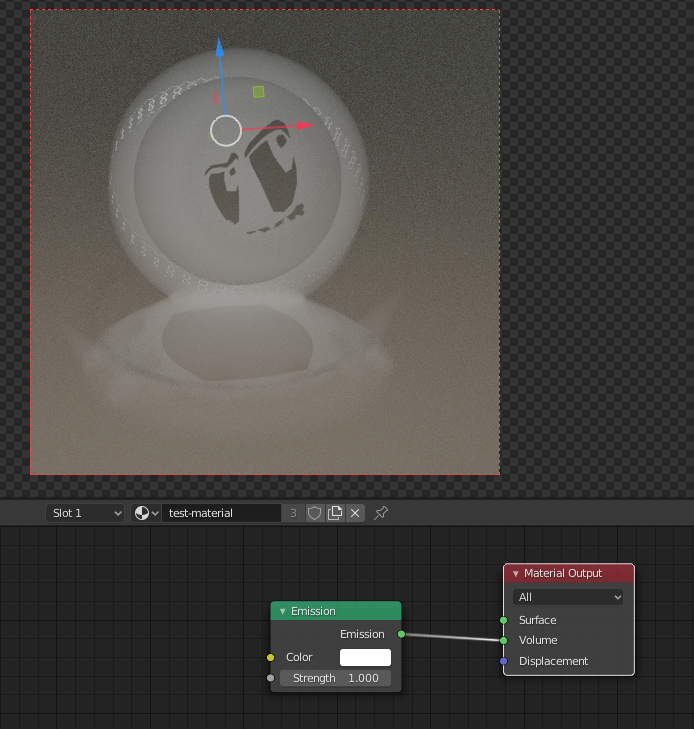
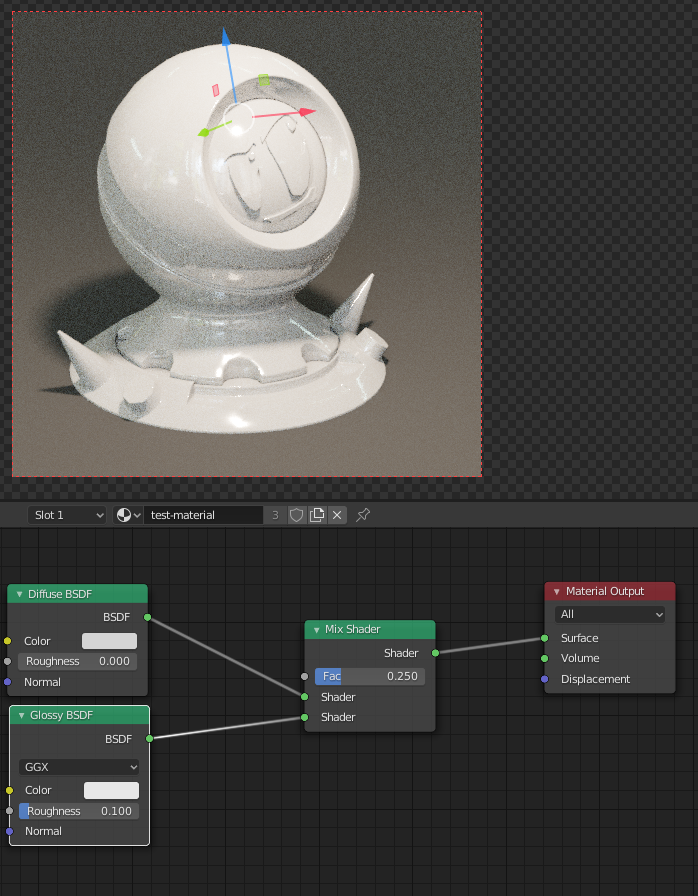
GitBook: [master] 39 pages and 2 assets modified

diff --git a/blender/materials/shading-from-observation.md b/blender/materials/shading-from-observation.md
@@ -1,2 +1,17 @@
 # Shading From Observation
 
+1. Is it transparent?
+2. It is metallic? Glossy shader would do most of this.
+
+### Ceramic
+
+Diffuse and Glossy used.
+
+Diffuse will be underlying color used. Sharp reflections from Glossy on top of that.
+
+When using mix shader, isolate one material at a time to make sure it's purpose is being used. Like the Glossy is used to mirror subtle reflections of the object's environment.
+
+How much Glossy = How much saturation in the reflections.
+
+![](../../.gitbook/assets/image%20%2861%29.png)
+

diff --git a/blender/materials/the-emission-velvet-and-toon-shaders.md b/blender/materials/the-emission-velvet-and-toon-shaders.md
@@ -14,7 +14,7 @@ This would set density control.
 
 Used in holograms or fire effects.
 
-![](../../.gitbook/assets/image%20%2861%29.png)
+![](../../.gitbook/assets/image%20%2862%29.png)
 
 ### Velvet
 
